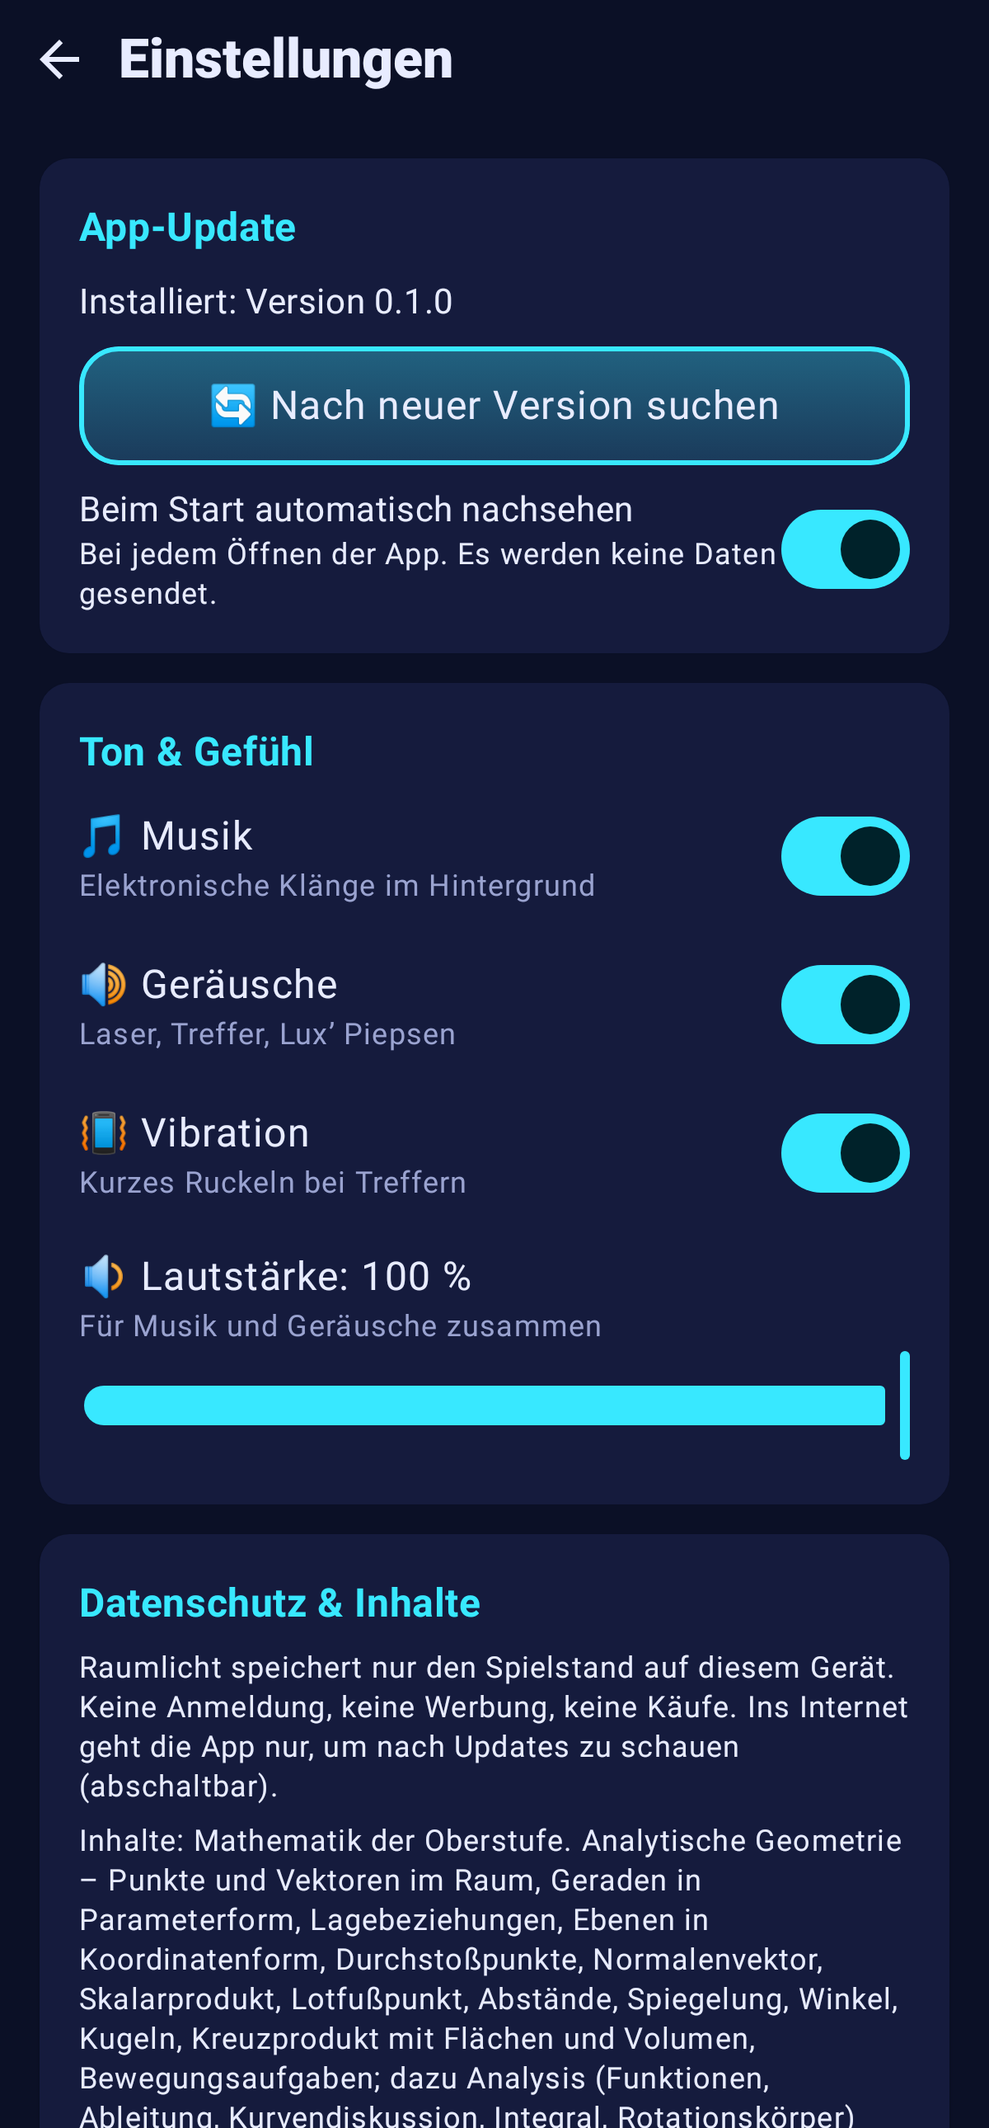
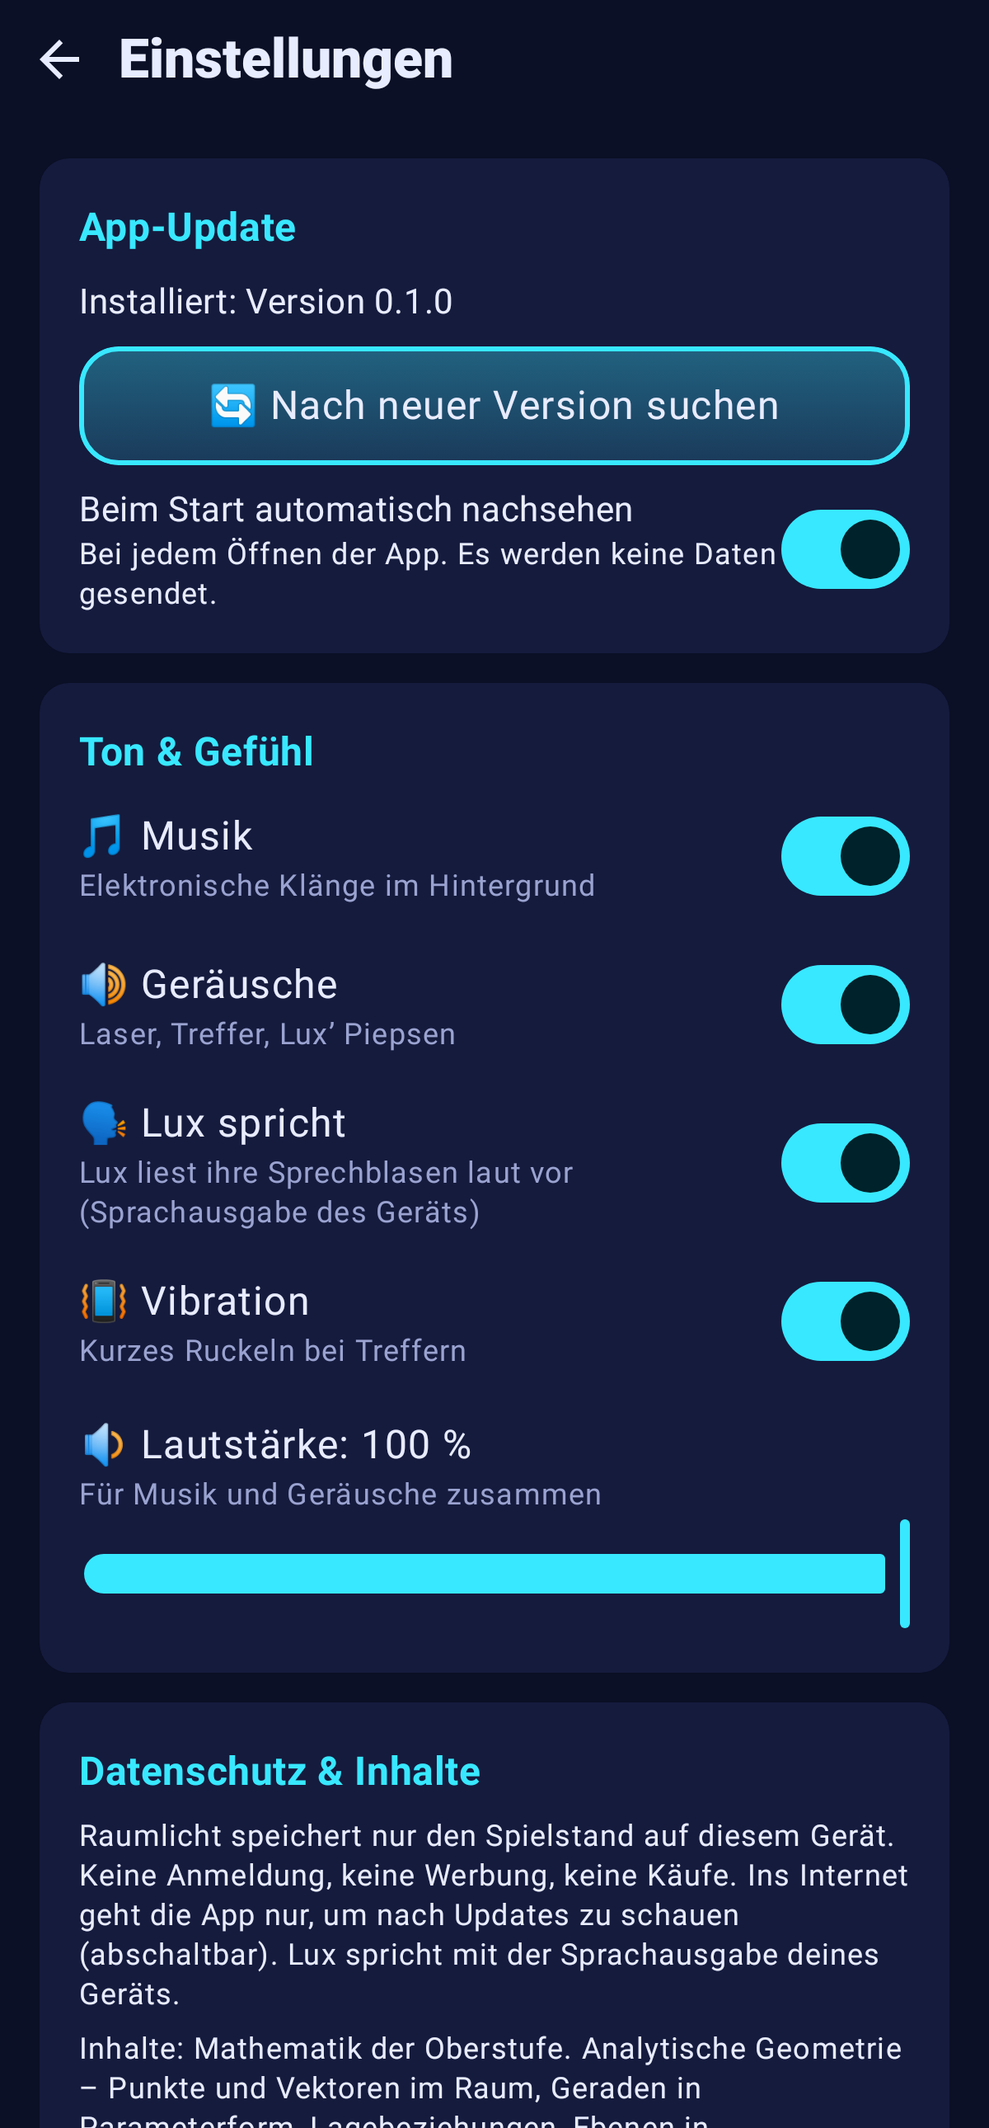
Raumlicht 2.0.0: Lux spricht
Die Sprachausgabe des Geräts liest Lux' Sprechblasen vor (Auftrag,
Rückmeldung, Schritte im Finale, Kapitel-Erklärung, besondere Stellen bei
der Kurvenfahrt). Formelzeichen werden zu Wörtern. Abschaltbar, folgt
dem Lautstärke-Regler, Musik wird währenddessen leiser.

Claude-Session: https://claude.ai/code/session_015vg1TkCEYsXkAEYjbLFPi2

Changed region(s): [[0.0617, 0.4961, 0.925, 1.0], [0.7708, 0.5271, 0.8017, 0.5581]]

diff --git a/raumlicht/app/src/main/java/de/raumlicht/app/ui/settings/SettingsScreen.kt b/raumlicht/app/src/main/java/de/raumlicht/app/ui/settings/SettingsScreen.kt
@@ -25,7 +25,9 @@ fun SettingsScreen(
     onBack: () -> Unit,
     onReset: () -> Unit = {},
     volume: Int = 100, onVolume: (Int) -> Unit = {},
+    voice: Boolean = true, onVoice: (Boolean) -> Unit = {}, voiceAvailable: Boolean = true,
 ) {
+    val speaker = de.raumlicht.app.ui.fx.LocalSpeaker.current
     val sfx = de.raumlicht.app.ui.fx.LocalSfx.current
     var ask by remember { mutableStateOf(false) }; var done by remember { mutableStateOf(false) }
     Column(Modifier.fillMaxSize().systemBarsPadding()) {
@@ -40,6 +42,8 @@ fun SettingsScreen(
                     Text("Ton & Gefühl", style = MaterialTheme.typography.titleMedium, color = MaterialTheme.colorScheme.primary)
                     Toggle("🎵 Musik", "Elektronische Klänge im Hintergrund", music, onMusic)
                     Toggle("🔊 Geräusche", "Laser, Treffer, Lux’ Piepsen", sound, onSound)
+                    Toggle("🗣 Lux spricht", if (voiceAvailable) "Lux liest ihre Sprechblasen laut vor (Sprachausgabe des Geräts)" else "Auf diesem Gerät ist keine deutsche Stimme eingerichtet – Lux bleibt stumm.", voice) {
+                        onVoice(it); if (it) speaker?.say("Hallo, ich bin Lux!") }
                     Toggle("📳 Vibration", "Kurzes Ruckeln bei Treffern", vibration, onVibration)
                     Text("🔉 Lautstärke: $volume %", Modifier.padding(top = 8.dp).testTag("lautstaerke-text"), style = MaterialTheme.typography.bodyLarge)
                     Text("Für Musik und Geräusche zusammen", style = MaterialTheme.typography.bodySmall, color = Q.Muted)
@@ -50,7 +54,7 @@ fun SettingsScreen(
                 Column(Modifier.padding(16.dp), verticalArrangement = Arrangement.spacedBy(6.dp)) {
                     Text("Datenschutz & Inhalte", style = MaterialTheme.typography.titleMedium, color = MaterialTheme.colorScheme.primary)
                     Text("Raumlicht speichert nur den Spielstand auf diesem Gerät. Keine Anmeldung, keine Werbung, keine Käufe. " +
-                        "Ins Internet geht die App nur, um nach Updates zu schauen (abschaltbar).", style = MaterialTheme.typography.bodySmall)
+                        "Ins Internet geht die App nur, um nach Updates zu schauen (abschaltbar). Lux spricht mit der Sprachausgabe deines Geräts.", style = MaterialTheme.typography.bodySmall)
                     Text("Inhalte: Mathematik der Oberstufe. Analytische Geometrie – Punkte und Vektoren im Raum, Geraden in Parameterform, " +
                         "Lagebeziehungen, Ebenen in Koordinatenform, Durchstoßpunkte, Normalenvektor, Skalarprodukt, Lotfußpunkt, " +
                         "Abstände, Spiegelung, Winkel, Kugeln, Kreuzprodukt mit Flächen und Volumen, Bewegungsaufgaben; dazu Analysis (Funktionen, Ableitung, Kurvendiskussion, Integral, Rotationskörper) und Stochastik (Laplace, Pfadregel, Vierfeldertafel, Binomialverteilung). Jedes Kapitel endet mit einer Aufgabe im Abitur-Stil.", style = MaterialTheme.typography.bodySmall)

diff --git a/raumlicht/app/src/main/java/de/raumlicht/app/ui/fx/Voice.kt b/raumlicht/app/src/main/java/de/raumlicht/app/ui/fx/Voice.kt
@@ -1,0 +1,57 @@
+package de.raumlicht.app.ui.fx
+
+import android.content.Context
+import android.os.Bundle
+import android.speech.tts.TextToSpeech
+import android.speech.tts.UtteranceProgressListener
+import androidx.compose.runtime.staticCompositionLocalOf
+import de.raumlicht.core.model.Speech
+import java.util.Locale
+
+/** Wer Lux' Sprechblasen laut vorliest. */
+fun interface Speaker { fun say(text: String) }
+val LocalSpeaker = staticCompositionLocalOf<Speaker?> { null }
+
+/**
+ * Lux spricht: die Sprachausgabe des Geräts liest die Sprechblasen vor – höher und etwas flotter gestellt, damit es nach kleiner Drohne klingt.
+ * Bevorzugt wird eine deutsche Stimme, die ohne Internet auskommt. Gibt es auf dem Gerät keine deutsche Stimme, bleibt Lux stumm ([available] = false).
+ * [onSpeaking] meldet Anfang und Ende, damit die Musik so lange leiser wird.
+ */
+class LuxVoice(context: Context, private val onSpeaking: (Boolean) -> Unit = {}) : Speaker {
+    @Volatile var enabled = true
+    @Volatile var volume = 1f
+    @Volatile var available = false
+        private set
+    private var ready = false
+    private var pending: String? = null
+    private val tts: TextToSpeech = TextToSpeech(context.applicationContext) { status ->
+        if (status == TextToSpeech.SUCCESS) setUp()
+    }
+
+    private fun setUp() {
+        val ok = runCatching { tts.setLanguage(Locale.GERMANY) }.getOrDefault(TextToSpeech.LANG_NOT_SUPPORTED)
+        available = ok >= TextToSpeech.LANG_AVAILABLE
+        if (!available) return
+        // lieber eine Stimme, die auf dem Gerät rechnet – dann geht kein Text ins Netz
+        runCatching { tts.voices?.filter { it.locale.language == "de" && !it.isNetworkConnectionRequired }?.minByOrNull { it.quality * -1 }?.let { tts.voice = it } }
+        tts.setPitch(1.45f); tts.setSpeechRate(1.08f)
+        tts.setOnUtteranceProgressListener(object : UtteranceProgressListener() {
+            override fun onStart(id: String?) = onSpeaking(true)
+            override fun onDone(id: String?) = onSpeaking(false)
+            @Deprecated("Deprecated in Java") override fun onError(id: String?) = onSpeaking(false)
+            override fun onStop(id: String?, interrupted: Boolean) = onSpeaking(false)
+        })
+        ready = true
+        pending?.let { say(it) }; pending = null
+    }
+
+    /** Liest den Text vor; ein neuer Satz unterbricht den alten (Lux redet nie durcheinander). */
+    override fun say(text: String) {
+        if (!enabled || volume <= 0f) return
+        if (!ready) { pending = text; return }
+        val clean = Speech.clean(text); if (clean.isEmpty()) return
+        runCatching { tts.speak(clean, TextToSpeech.QUEUE_FLUSH, Bundle().apply { putFloat(TextToSpeech.Engine.KEY_PARAM_VOLUME, volume.coerceIn(0f, 1f)) }, "lux") }
+    }
+    fun stop() { pending = null; runCatching { tts.stop() }; onSpeaking(false) }
+    fun shutdown() { runCatching { tts.shutdown() } }
+}

diff --git a/raumlicht/app/src/main/java/de/raumlicht/app/MainActivity.kt b/raumlicht/app/src/main/java/de/raumlicht/app/MainActivity.kt
@@ -107,9 +107,11 @@ class MainActivity : ComponentActivity() {
             LaunchedEffect(sound) { app.sfx.enabled = sound }
             LaunchedEffect(music) { app.music.setEnabled(music) }
             val volume by vm.settings.volume.collectAsStateWithLifecycle()
-            LaunchedEffect(volume) { app.sfx.master = volume / 100f; app.music.setVolume(volume / 100f) }
+            LaunchedEffect(volume) { app.sfx.master = volume / 100f; app.music.setVolume(volume / 100f); app.voice.volume = volume / 100f }
+            val voice by vm.settings.voice.collectAsStateWithLifecycle()
+            LaunchedEffect(voice) { app.voice.enabled = voice; if (!voice) app.voice.stop() }
             RaumlichtTheme {
-                CompositionLocalProvider(LocalSfx provides app.sfx, LocalVibration provides vibration) {
+                CompositionLocalProvider(LocalSfx provides app.sfx, LocalVibration provides vibration, de.raumlicht.app.ui.fx.LocalSpeaker provides app.voice) {
                     Surface(Modifier.fillMaxSize(), color = Q.Space) { Nav() }
                 }
             }
@@ -122,7 +124,7 @@ class MainActivity : ComponentActivity() {
         de.raumlicht.app.widget.DailyWidget.refresh(this)   // z. B. nach Mitternacht: neuer Tagesaufgabe
         vm.checkForUpdateIfDue(BuildConfig.VERSION_NAME)
     }
-    override fun onStop() { (application as RaumlichtApp).music.onForeground(false); super.onStop() }
+    override fun onStop() { (application as RaumlichtApp).music.onForeground(false); (application as RaumlichtApp).voice.stop(); super.onStop() }
 
     @Composable
     private fun Nav() {
@@ -267,7 +269,7 @@ class MainActivity : ComponentActivity() {
                 val music by vm.settings.music.collectAsStateWithLifecycle()
                 val auto by vm.settings.autoUpdate.collectAsStateWithLifecycle()
                 SettingsScreen(music, vm.settings::setMusic, sound, vm.settings::setSound, vibration, vm.settings::setVibration, auto, vm.settings::setAutoUpdate,
-                    BuildConfig.VERSION_NAME, update?.let { UpdateState.Available(it) } ?: UpdateState.Idle, { nav.popSafe() }, onReset = vm::resetAll, volume = vm.settings.volume.collectAsStateWithLifecycle().value, onVolume = vm.settings::setVolume)
+                    BuildConfig.VERSION_NAME, update?.let { UpdateState.Available(it) } ?: UpdateState.Idle, { nav.popSafe() }, onReset = vm::resetAll, voice = vm.settings.voice.collectAsStateWithLifecycle().value, onVoice = vm.settings::setVoice, voiceAvailable = (application as RaumlichtApp).voice.available, volume = vm.settings.volume.collectAsStateWithLifecycle().value, onVolume = vm.settings::setVolume)
             }
         }
         }

diff --git a/raumlicht/app/src/test/java/de/raumlicht/app/ui/PlayFlowTest.kt b/raumlicht/app/src/test/java/de/raumlicht/app/ui/PlayFlowTest.kt
@@ -215,4 +215,25 @@ class PlayFlowTest {
         assertEquals(listOf(up[0].kind.points), scores)
         rule.mainClock.autoAdvance = true
     }
+
+    @Test fun luxReadsHerSpeechBubblesAloud() {
+        val heard = ArrayList<String>(); val l = Levels.byId("13-3")!!
+        rule.setContent { RaumlichtTheme { Surface(color = Q.Space) { CompositionLocalProvider(LocalStageRenderer provides { _, m -> Box(m) }, de.raumlicht.app.ui.fx.LocalSpeaker provides de.raumlicht.app.ui.fx.Speaker { heard += it }) {
+            LevelScreen(l, Levels.chapters.first { it.number == 13 }, false, {}, { _, _ -> }, {}, {}, mapOf("a" to listOf(2)))
+        } } } }
+        rule.mainClock.advanceTimeBy(600); assertEquals(listOf(l.mission), heard)                          // Auftrag beim Öffnen
+        rule.onNodeWithText("▶ Los").performClick(); rule.mainClock.advanceTimeBy(8000)
+        assertTrue(heard.toString(), heard.any { it.startsWith("1. Zug: pink") } && heard.any { it.contains("nur noch 1 von 4") } && heard.last() == "Genau 10 % – Treffer!")
+        assertEquals("1. Zug: pink, 2 von 5. Die Kugel bleibt draußen.", Speech.clean(heard[1]))
+    }
+
+    @Test fun voiceSwitchInSettings() {
+        var on = true; val heard = ArrayList<String>()
+        show { CompositionLocalProvider(de.raumlicht.app.ui.fx.LocalSpeaker provides de.raumlicht.app.ui.fx.Speaker { heard += it }) {
+            de.raumlicht.app.ui.settings.SettingsScreen(true, {}, true, {}, true, {}, true, {}, "2.0.0", de.raumlicht.app.ui.settings.UpdateState.Idle, {}, voice = on, onVoice = { on = it }) } }
+        rule.onNodeWithText("🗣 Lux spricht").assertExists()
+        val ctx = androidx.test.core.app.ApplicationProvider.getApplicationContext<android.content.Context>()
+        val s = de.raumlicht.core.data.Settings(ctx); assertTrue(s.voice.value); s.setVoice(false); assertFalse(de.raumlicht.core.data.Settings(ctx).voice.value)
+        val v = de.raumlicht.app.ui.fx.LuxVoice(ctx); v.enabled = false; v.say("still"); v.stop(); v.shutdown()      // ohne Stimme oder ausgeschaltet: kein Absturz
+    }
 }

diff --git a/raumlicht/core/model/src/main/kotlin/de/raumlicht/core/model/Speech.kt b/raumlicht/core/model/src/main/kotlin/de/raumlicht/core/model/Speech.kt
@@ -1,0 +1,24 @@
+package de.raumlicht.core.model
+
+/** Macht aus einer Sprechblase von Lux einen Text, den eine Sprachausgabe sauber vorlesen kann: Formelzeichen werden zu Wörtern, Emojis fallen weg. */
+object Speech {
+    private val words = listOf(
+        "f″" to "f zwei Strich", "f′" to "f Strich", "F′" to "F Strich", "⃗" to "", "≈" to " ungefähr ", "≠" to " ungleich ", "≤" to " kleiner gleich ", "≥" to " größer gleich ",
+        "·" to " mal ", "×" to " kreuz ", "−" to " minus ", "–" to ", ", "√" to " Wurzel aus ", "²" to " hoch 2", "³" to " hoch 3", "π" to " Pi ", "∫" to " Integral ", "μ" to " mü ", "σ" to " sigma ",
+        "½" to " ein halb ", "⅓" to " ein Drittel ", "¼" to " ein Viertel ", "⅖" to " zwei Fünftel ", "⁴⁄₃" to " vier Drittel ", "°" to " Grad", "%" to " Prozent", "„" to "", "“" to "", "‚" to "", "’" to "", "›" to "", "▶" to "", "✓" to "",
+    )
+    private val subscripts = mapOf('₀' to "0", '₁' to "1", '₂' to "2", '₃' to "3", '₄' to "4")
+    fun clean(text: String): String {
+        var s = text
+        // Punkte und Vektoren wie (2|3|1) werden als Zahlenfolge gelesen
+        s = Regex("""\(([^()|]+(?:\|[^()|]+)+)\)""").replace(s) { m -> " " + m.groupValues[1].split('|').joinToString(", ") { it.trim() } + " " }
+        s = s.replace("|", " unter der Bedingung ")
+        words.forEach { (a, b) -> s = s.replace(a, b) }
+        s = s.map { subscripts[it] ?: it.toString() }.joinToString("")
+        s = Regex("""(\d) : (\d)""").replace(s) { "${it.groupValues[1]} durch ${it.groupValues[2]}" }
+        s = s.replace("^", " hoch ").replace(" = ", " gleich ").replace(" + ", " plus ").replace("=", " gleich ")
+        // Emojis und sonstige Bildzeichen stumm
+        s = s.filter { it.isLetterOrDigit() || it.isWhitespace() || it in ".,;:!?()-/" }
+        return s.replace(Regex("""\s+"""), " ").replace(" ,", ",").replace(" .", ".").trim()
+    }
+}

diff --git a/raumlicht/app/src/main/java/de/raumlicht/app/ui/home/RideScreen.kt b/raumlicht/app/src/main/java/de/raumlicht/app/ui/home/RideScreen.kt
@@ -84,7 +84,7 @@ fun RideScreen(onBack: () -> Unit, startId: String = Coaster.rides.first().id, c
     // Tempo der automatischen Fahrt: Index in TEMPO (½×, 1×, 2×, 4×)
     var tempo by rememberSaveable { mutableIntStateOf(1) }
     var seen by remember(key) { mutableStateOf<Spot?>(null) }
-    val sfx = LocalSfx.current; val view = LocalView.current; val vib = LocalVibration.current
+    val sfx = LocalSfx.current; val view = LocalView.current; val vib = LocalVibration.current; val speaker = LocalSpeaker.current
     val d = ride.data(u.toDouble())
 
     // Mit Zusätzen wird die Bühne in kleinen Schritten nachgeführt (Punkt auf f′ wandert mit, die Fläche wächst)
@@ -108,7 +108,7 @@ fun RideScreen(onBack: () -> Unit, startId: String = Coaster.rides.first().id, c
     // An Hoch-, Tief-, Wendepunkten und Nullstellen: Lux meldet sich, es vibriert kurz
     LaunchedEffect(d.x) {
         val s = ride.spotNear(d.x, if (driving) 0.05 else 0.04)
-        if (s != null && s != seen) { seen = s; sfx?.play(Sound.HIT); view.buzz(Buzz.HIT, vib); controller.party(1.0) }
+        if (s != null && s != seen) { seen = s; sfx?.play(Sound.HIT); view.buzz(Buzz.HIT, vib); controller.party(1.0); speaker?.say("${s.kind.title} bei x = ${Geo.num(s.x)}") }
         else if (s == null && seen != null && abs(seen!!.x - d.x) > 0.25) seen = null
     }
 

diff --git a/raumlicht/core/model/src/test/kotlin/de/raumlicht/core/model/SpeechTest.kt b/raumlicht/core/model/src/test/kotlin/de/raumlicht/core/model/SpeechTest.kt
@@ -1,0 +1,18 @@
+package de.raumlicht.core.model
+
+import org.junit.Assert.*
+import org.junit.Test
+
+class SpeechTest {
+    @Test fun formulaSignsBecomeWords() {
+        assertEquals("Genau 25 Prozent, Treffer!", Speech.clean("Genau 25 % – Treffer!"))
+        assertEquals("Flieg zum Punkt 4, 2, 0 !", Speech.clean("Flieg zum Punkt (4|2|0)!"))
+        assertEquals("f Strich gleich 0 und f zwei Strich 0", Speech.clean("f′ = 0 und f″ < 0"))
+        assertEquals("V gleich 16 Pi", Speech.clean("V = 16π")); assertEquals("x hoch 2 minus 2x minus 3", Speech.clean("x² − 2x − 3"))
+        assertEquals("P gleich 3 durch 10", Speech.clean("P = 3 : 10")); assertEquals("Tipp gefällig?", Speech.clean("Tipp gefällig? 💡"))
+        assertEquals("ein halb mal ein halb gleich ein Viertel", Speech.clean("½ · ½ = ¼"))
+        assertEquals("", Speech.clean("🎈✨"))
+        // jede Sprechblase der Tour bleibt lesbar: nichts als Buchstaben, Ziffern und Satzzeichen
+        Levels.all.forEach { l -> val t = Speech.clean(l.mission); assertTrue(l.id, t.isNotEmpty() && t.all { it.isLetterOrDigit() || it in " .,;:!?()-/" }) }
+    }
+}

diff --git a/raumlicht/app/src/main/java/de/raumlicht/app/ui/level/LevelScreen.kt b/raumlicht/app/src/main/java/de/raumlicht/app/ui/level/LevelScreen.kt
@@ -86,6 +86,9 @@ fun LevelScreen(
         if (n != values) { values = n; override = null; sfx?.play(Sound.TICK); view.buzz(Buzz.TICK, vib) }
     }
     // Während Lux das Kapitel erklärt, führt die Bühne die erste Aufgabe vor: Ausgangslage → eingestellt → gelöst
+    // Lux liest jede neue Sprechblase vor (abschaltbar); während der Kapitel-Erklärung spricht die Erklärung
+    val speaker = LocalSpeaker.current
+    LaunchedEffect(says.first, intro, introStep) { speaker?.say(if (intro) chapter.intro.getOrElse(introStep) { "" } else says.first) }
     LaunchedEffect(values, phase, override, intro, introStep) {
         controller.setState(when {
             !intro -> override ?: level.scene(values, phase)

diff --git a/raumlicht/core/data/src/main/java/de/raumlicht/core/data/Settings.kt b/raumlicht/core/data/src/main/java/de/raumlicht/core/data/Settings.kt
@@ -14,6 +14,10 @@ class Settings(ctx: Context) {
     private val _music = flag("music", true)
     private val _vibration = flag("vibration", true)
     private val _autoUpdate = flag("autoUpdate", true)
+    private val _voice = flag("voice", true)
+    /** Lux liest ihre Sprechblasen laut vor */
+    val voice: StateFlow<Boolean> = _voice.asStateFlow()
+    fun setVoice(v: Boolean) { prefs.edit().putBoolean("voice", v).apply(); _voice.value = v }
     val sound: StateFlow<Boolean> = _sound.asStateFlow()
     val music: StateFlow<Boolean> = _music.asStateFlow()
     val vibration: StateFlow<Boolean> = _vibration.asStateFlow()

diff --git a/raumlicht/app/src/main/java/de/raumlicht/app/RaumlichtApp.kt b/raumlicht/app/src/main/java/de/raumlicht/app/RaumlichtApp.kt
@@ -8,6 +8,7 @@ class RaumlichtApp : Application() {
     lateinit var container: AppContainer
         private set
     val music: de.raumlicht.app.ui.fx.BackgroundMusic by lazy { de.raumlicht.app.ui.fx.BackgroundMusic(this) }
+    val voice: de.raumlicht.app.ui.fx.LuxVoice by lazy { de.raumlicht.app.ui.fx.LuxVoice(this) { speaking -> music.duck(speaking) }.also { it.enabled = container.settings.voice.value } }
     val sfx: Sfx by lazy { Sfx(this).also { it.enabled = container.settings.sound.value } }
 
     override fun onCreate() {

diff --git a/docs/APP-IDEEN.md b/docs/APP-IDEEN.md
@@ -18,7 +18,7 @@ Reihenfolge: eine App fertig optimieren, dann die nächste. Das Rechnen ist jewe
 
 | App | Spielprinzip | Inhalte | Status |
 |---|---|---|---|
-| 💡 **Raumlicht** (`raumlicht/`) | Mathe-Abi in echtem 3D: Laser = Geraden, Glas = Ebenen, Drohne Lux fliegt Vektoren; Kurven fährt man als Achterbahn ab, Zufall fällt durchs Galton-Brett | Geometrie, Analysis und Stochastik (89 Aufgaben, 17 Kapitel); Fahrersicht für Kurven und Geraden, Galton-Brett, Abi-Aufgaben, Rechenweg in Schritten, Endlos üben, Ohne Hilfsmittel, Fehler-Tagebuch, Klausur-Planer, Duell, Klasse, 3D-Rechner, 2 Widgets | ✅ 0.7.2 (15.11.2026) |
+| 💡 **Raumlicht** (`raumlicht/`) | Mathe-Abi in echtem 3D: Laser = Geraden, Glas = Ebenen, Drohne Lux fliegt Vektoren; Kurven fährt man als Achterbahn ab, Zufall fällt durchs Galton-Brett | Geometrie, Analysis und Stochastik (89 Aufgaben, 17 Kapitel); Fahrersicht für Kurven und Geraden, Galton-Brett, Abi-Aufgaben, Rechenweg in Schritten, Endlos üben, Ohne Hilfsmittel, Fehler-Tagebuch, Klausur-Planer, Duell, Klasse, 3D-Rechner, 2 Widgets | ✅ 2.0.0 (15.11.2026) |
 
 Ideen für später: weitere Abi-Simulationen (auch auf Zeit), Jam für Bewegung und Kugeln, mehr Analysis in 3D (Flächen, Extremwerte), Stochastik, Klassen-Modus für Lehrkräfte.
 

diff --git a/raumlicht/CHANGELOG.md b/raumlicht/CHANGELOG.md
@@ -2,6 +2,13 @@
 
 Jede Version steht hier mit ihrem Datum.
 
+## 2.0.0 – Lux spricht (15.11.2026)
+- **🗣 Lux kann sprechen:** Lux liest ihre Sprechblasen laut vor – den Auftrag, Rückmeldungen, Tipps, die Kapitel-Erklärung, jeden Schritt ihrer Aktionen
+  („1. Zug: pink, 2 von 5 …“) und beim Kurvenfahren die besonderen Stellen („Hochpunkt bei x = 2“). Formelzeichen werden dabei als Wörter gesprochen.
+- Die Stimme kommt von der Sprachausgabe des Geräts, etwas höher gestellt. Während Lux spricht, wird die Musik leiser.
+- Abschaltbar in den Einstellungen unter „Ton & Gefühl“; die Lautstärke folgt dem Lautstärke-Regler. Ist auf dem Gerät keine deutsche Stimme eingerichtet, bleibt Lux stumm.
+- Die Versionsnummer springt auf 2.0.0.
+
 ## 0.7.2 – Eigene Funktion leichter eingeben (15.11.2026)
 - Bei „Eigene Funktion“ steht die Funktion jetzt als gut sichtbare Zeile über der Bühne: antippen („✏ Funktion eingeben“) öffnet die Eingabe.
   Vorher war sie nur über den kleinen Knopf „ändern“ erreichbar.
